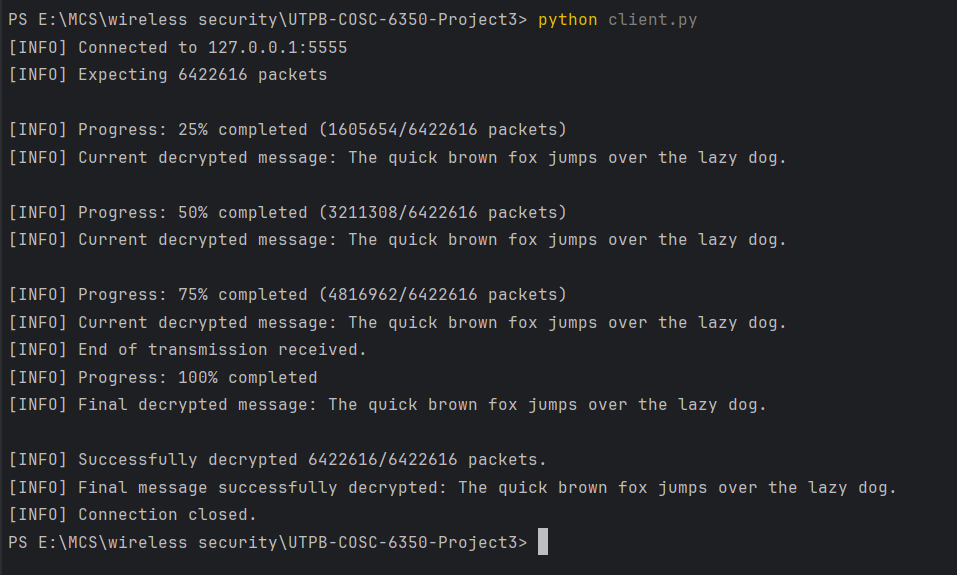
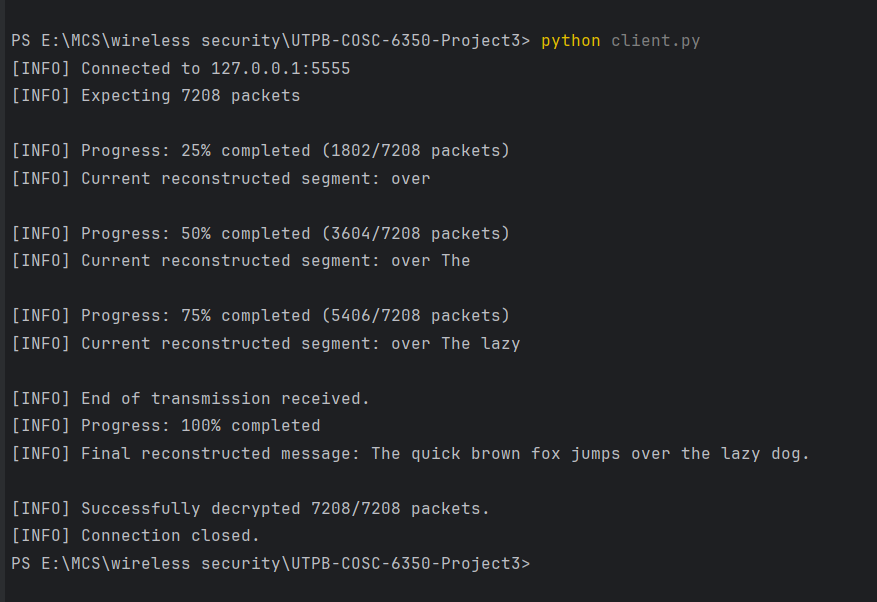
final code correction

diff --git a/Client.py b/Client.py
@@ -1,4 +1,5 @@
 import socket
+import random
 from Crypto import *
 
 # Constants
@@ -20,23 +21,32 @@ def tcp_client():
 
             successfully_decrypted = 0
             failed_attempts = {}
-            received_packets = []
+
+            # Original message
+            original_message = "The quick brown fox jumps over the lazy dog."
+            words = original_message.split()
+
+            # Tracking for unique word selection
+            available_words = words.copy()
+            reconstructed_words = []
             last_progress_milestone = 0
-            last_decrypted_message = ""
 
             print(f"[INFO] Expecting {total_packets} packets")
 
             while True:
                 encrypted_packet = client_socket.recv(1024)
+
                 if not encrypted_packet or encrypted_packet == b'END':
-                    print("[INFO] End of transmission received.")
+                    # Final reconstruction
+                    print("\n[INFO] End of transmission received.")
                     print("[INFO] Progress: 100% completed")
-                    print(f"[INFO] Final decrypted message: {last_decrypted_message}")
+                    full_message = " ".join(original_message.split())
+                    print(f"[INFO] Final reconstructed message: {full_message}")
                     break
 
                 # Try decryption with each key
                 key_attempts = list(keys.values())
-                packet_number = successfully_decrypted  # Use successfully_decrypted as packet counter
+                packet_number = successfully_decrypted
                 key_attempts_failed = failed_attempts.get(packet_number, [])
 
                 decryption_successful = False
@@ -49,29 +59,26 @@ def tcp_client():
                         if decrypted_message == "The quick brown fox jumps over the lazy dog.":
                             client_socket.sendall(b'ACK')
                             successfully_decrypted += 1
-                            received_packets.append(decrypted_message)
                             decryption_successful = True
-                            last_decrypted_message = decrypted_message  # Store the last successful decryption
 
-                            # Calculate current progress percentage based on total_packets
+                            # Calculate current progress percentage
                             current_progress = (successfully_decrypted / total_packets) * 100
 
-                            # Show progress at 25% intervals
-                            if current_progress >= 25 and last_progress_milestone < 25:
-                                print(
-                                    f"\n[INFO] Progress: 25% completed ({successfully_decrypted}/{total_packets} packets)")
-                                print(f"[INFO] Current decrypted message: {last_decrypted_message}")
-                                last_progress_milestone = 25
-                            elif current_progress >= 50 and last_progress_milestone < 50:
-                                print(
-                                    f"\n[INFO] Progress: 50% completed ({successfully_decrypted}/{total_packets} packets)")
-                                print(f"[INFO] Current decrypted message: {last_decrypted_message}")
-                                last_progress_milestone = 50
-                            elif current_progress >= 75 and last_progress_milestone < 75:
-                                print(
-                                    f"\n[INFO] Progress: 75% completed ({successfully_decrypted}/{total_packets} packets)")
-                                print(f"[INFO] Current decrypted message: {last_decrypted_message}")
-                                last_progress_milestone = 75
+                            # Progress milestones with unique random words
+                            progress_milestones = [25, 50, 75]
+                            for milestone in progress_milestones:
+                                if current_progress >= milestone and last_progress_milestone < milestone:
+                                    if available_words:
+                                        # Randomly select a unique word not yet used
+                                        new_word = random.choice(available_words)
+                                        reconstructed_words.append(new_word)
+                                        available_words.remove(new_word)
+
+                                        print(
+                                            f"\n[INFO] Progress: {milestone}% completed ({successfully_decrypted}/{total_packets} packets)")
+                                        print(f"[INFO] Current reconstructed segment: {' '.join(reconstructed_words)}")
+                                        last_progress_milestone = milestone
+                                    break
 
                             break
                     except Exception:
@@ -82,7 +89,6 @@ def tcp_client():
                     failed_attempts[packet_number] = key_attempts_failed
 
             print(f"\n[INFO] Successfully decrypted {successfully_decrypted}/{total_packets} packets.")
-            print(f"[INFO] Final message successfully decrypted: {last_decrypted_message}")
 
         except Exception as e:
             print(f"[ERROR] {e}")

diff --git a/Server.py b/Server.py
@@ -20,7 +20,7 @@ def handle_client(conn, addr):
 
     try:
         # Read and process input file
-        with open("risk.bmp", "rb") as dat_file:
+        with open("requirements.txt", "rb") as dat_file:
             dat_file.seek(0, 2)
             file_size = dat_file.tell()
             dat_file.seek(0)

diff --git a/Crypto.py b/Crypto.py
@@ -1,4 +1,3 @@
-# crypto.py
 from cryptography.hazmat.primitives.ciphers import Cipher, algorithms, modes
 from cryptography.hazmat.backends import default_backend
 from cryptography.hazmat.primitives import padding
